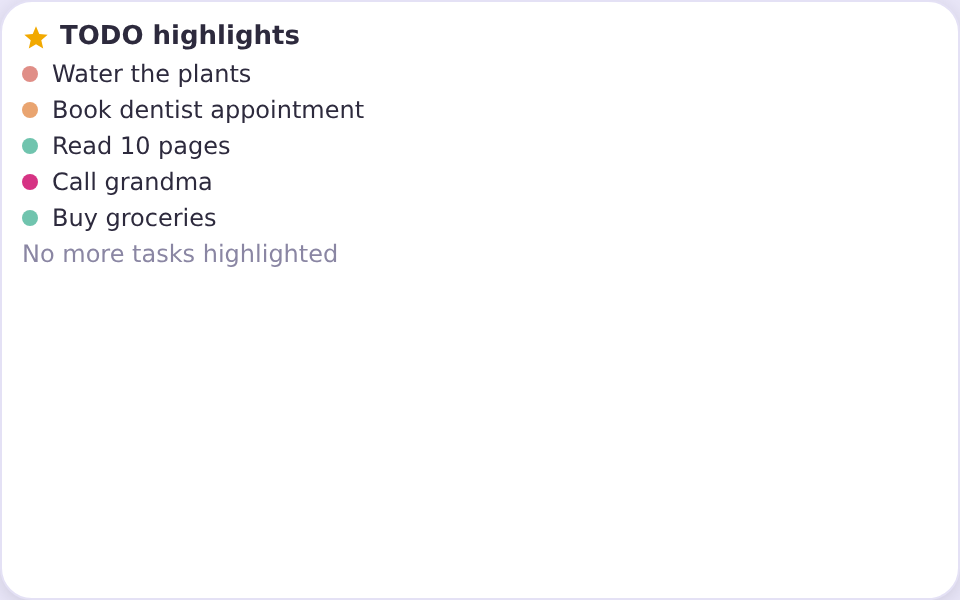
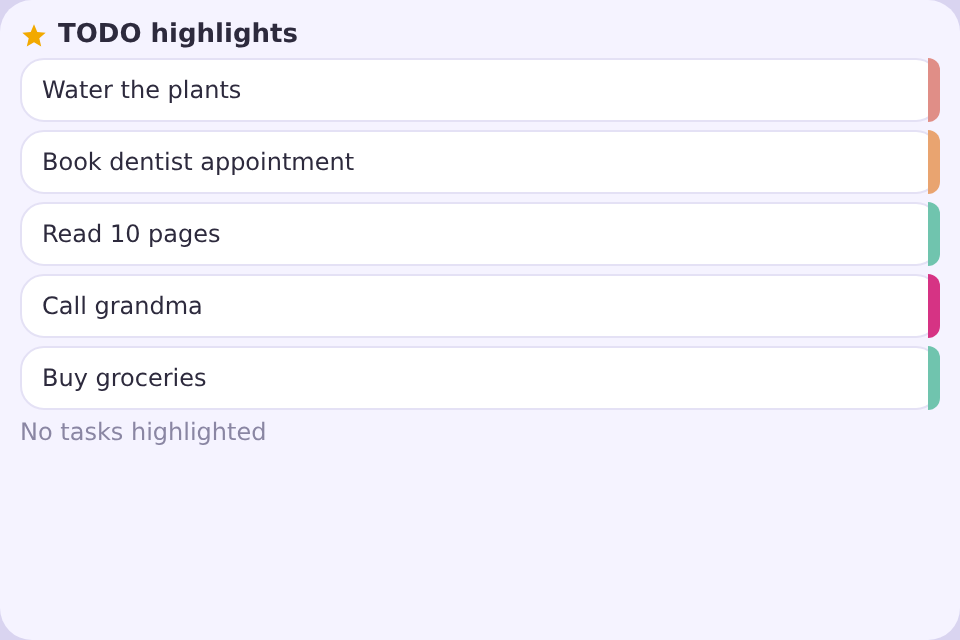
Widget rows as app-style task cards: white 12dp cards on #F5F3FF with 6dp difficulty stripe on the right edge; previews updated (VERSION 0.80.10)

Changed region(s): [[0.0, 0.03, 1.0, 0.63], [0.0, 0.66, 0.2812, 0.69], [0.0312, 0.57, 0.2188, 0.63]]

diff --git a/plugins/todo-assistant/android/src/main/java/dev/phbrb/todo/assistant/TodoWidgetProvider.kt b/plugins/todo-assistant/android/src/main/java/dev/phbrb/todo/assistant/TodoWidgetProvider.kt
@@ -26,9 +26,9 @@ class TodoWidgetProvider : AppWidgetProvider() {
         private const val MAX_ROWS = 5
         private val ROW_WRAP_IDS = intArrayOf(R.id.rowwrap0, R.id.rowwrap1, R.id.rowwrap2, R.id.rowwrap3, R.id.rowwrap4)
         private val ROW_IDS = intArrayOf(R.id.row0, R.id.row1, R.id.row2, R.id.row3, R.id.row4)
-        private val DOT_IDS = intArrayOf(R.id.dot0, R.id.dot1, R.id.dot2, R.id.dot3, R.id.dot4)
+        private val STRIPE_IDS = intArrayOf(R.id.stripe0, R.id.stripe1, R.id.stripe2, R.id.stripe3, R.id.stripe4)
 
-        /** Difficulty dot colors matching the web app's --diff-color values. */
+        /** Difficulty stripe colors matching the web app's --diff-color values. */
         private fun difficultyColor(difficulty: String): Int = when (difficulty) {
             "easy" -> 0xFF70C4AE.toInt()
             "medium" -> 0xFFE9A470.toInt()
@@ -70,7 +70,7 @@ class TodoWidgetProvider : AppWidgetProvider() {
             for (i in 0 until minOf(items.length(), MAX_ROWS)) {
                 val obj = items.optJSONObject(i) ?: continue
                 views.setTextViewText(ROW_IDS[i], obj.optString("title", ""))
-                views.setInt(DOT_IDS[i], "setColorFilter", difficultyColor(obj.optString("difficulty", "")))
+                views.setInt(STRIPE_IDS[i], "setColorFilter", difficultyColor(obj.optString("difficulty", "")))
                 views.setViewVisibility(ROW_WRAP_IDS[i], View.VISIBLE)
                 shown++
             }

diff --git a/docs/game-constants.js b/docs/game-constants.js
@@ -1,6 +1,6 @@
 import { ICONS } from "./game-icons.js";
 
-const VERSION = "0.80.9";
+const VERSION = "0.80.10";
 const STORAGE_KEY = "todo-mwe-state";
 
 const REMINDER_HOUR = 20;
